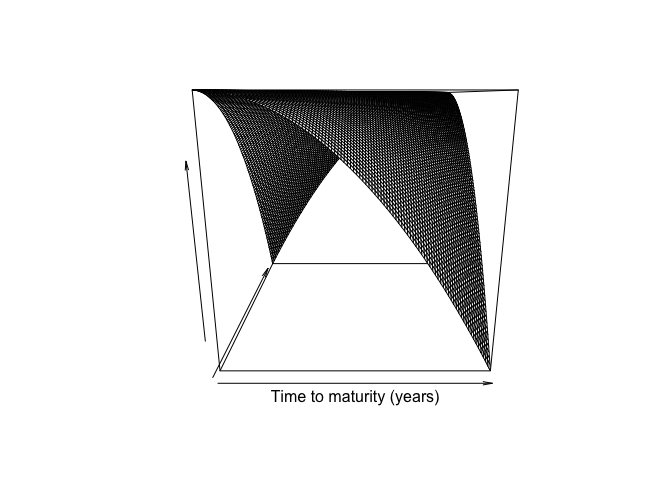
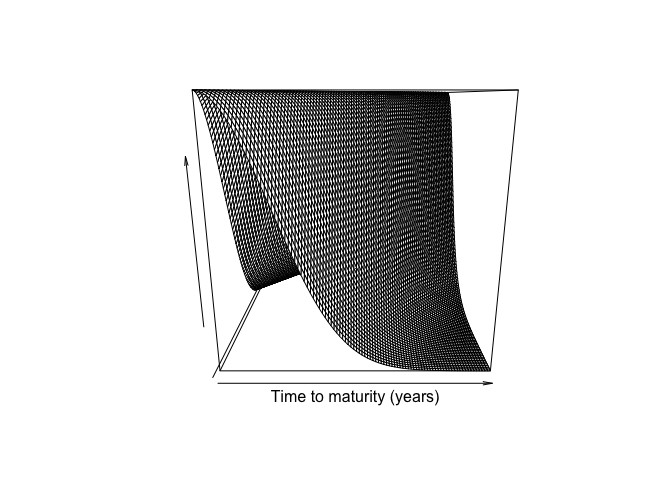
Estimator changes

Changed region(s): [[0.2812, 0.1875, 0.75, 0.7812]]

diff --git a/README.md b/README.md
@@ -44,6 +44,7 @@ bond market is presented:
 library(FDATSM)
 library(pracma)
 library(MASS)
+library(matrixcalc)
 ## basic example code
 ```
 
@@ -72,7 +73,7 @@ q(x,y)= \exp(-10 (x-y)^2),
 which can be plotted:
 
 ``` r
-q<-Gaussian.cov(.1,100,100)
+q<-Gaussian.cov(10,100,100)
 persp(z=  q[1:100,1:100],xlab= "Time to maturity (years)", zlab = "", ylab = "")
 ```
 
@@ -103,3 +104,28 @@ persp(z=k[1:100,1:200],xlab= "Time to maturity (years)")
 ```
 
 <img src="man/figures/README-unnamed-chunk-2-1.png" width="100%" />
+
+``` r
+SIM<-Simulator(100,100, q= q, k=k, f0=numeric(201))
+```
+
+Now use the Truncated estimator to estimate the volatility
+
+``` r
+Est<-Truncated.Covariation.estimator(x=SIM$Cont.Prices)
+```
+
+<img src="man/figures/README-unnamed-chunk-4-1.png" width="100%" />
+
+``` r
+persp(Est$IV,xlab= "Time to maturity (years)")
+```
+
+<img src="man/figures/README-unnamed-chunk-4-2.png" width="100%" />
+
+The relative MSE in Hilbert-Schmidt norm is
+
+``` r
+L2.HS.norm(Est$IV-q[1:99,1:99]/100)/L2.HS.norm(q[1:99,1:99]/100)
+#> [1] 0.1462048
+```
